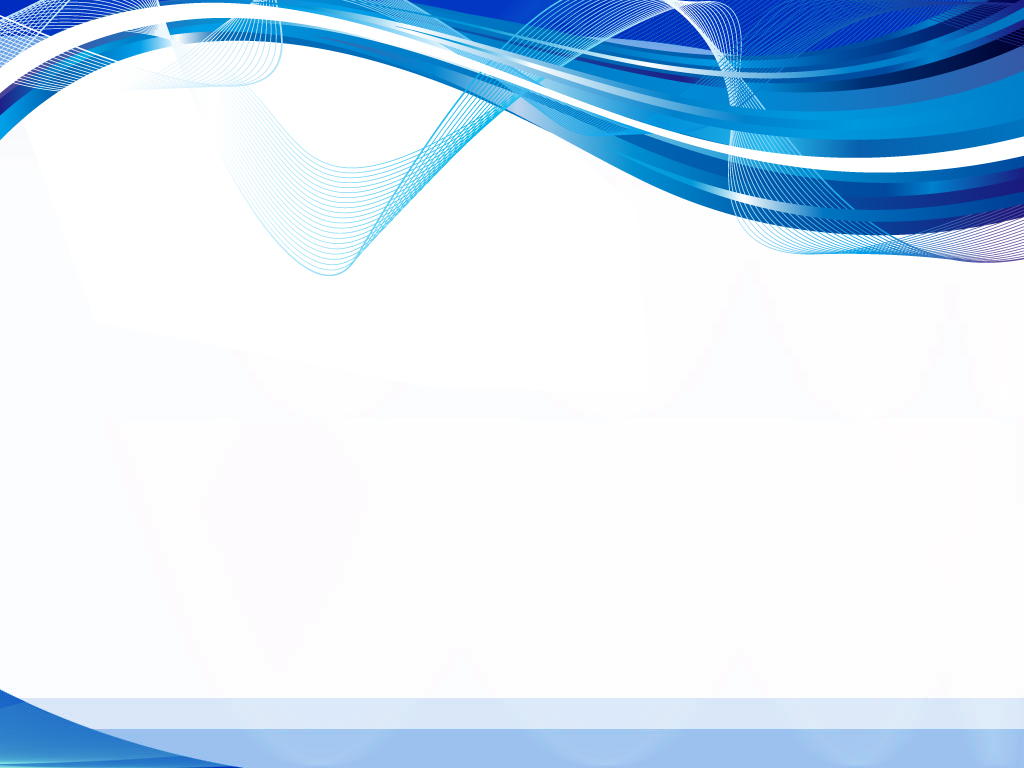
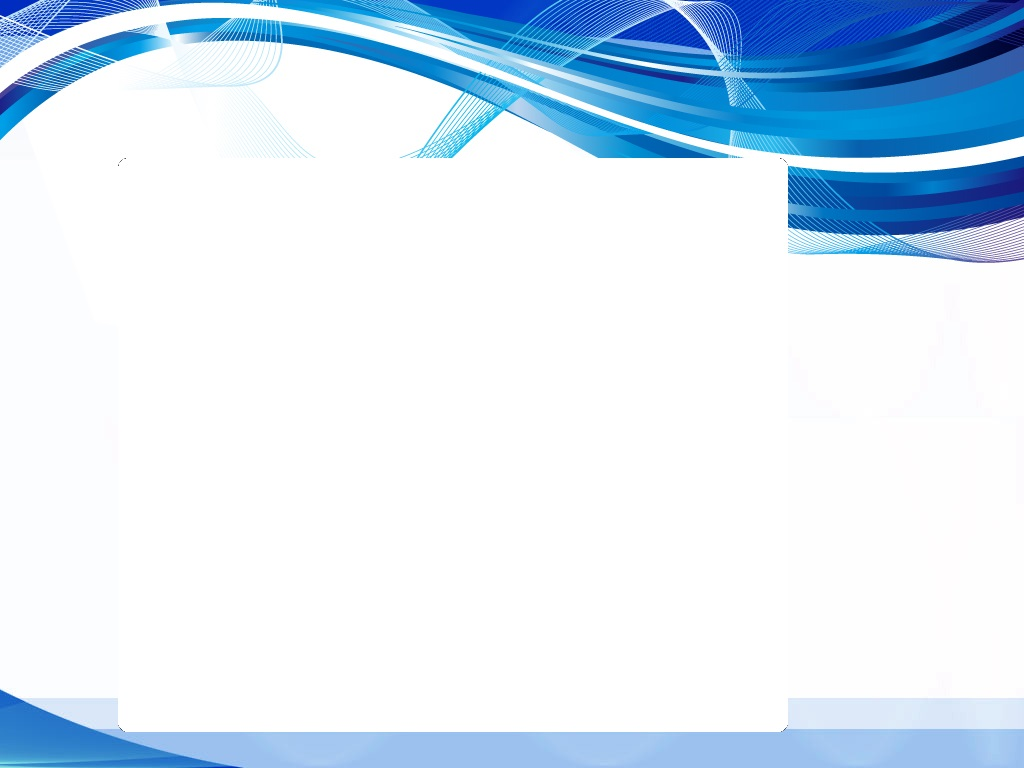
Imagen de Fondo Portafolio

diff --git a/index.html b/index.html
@@ -1,23 +1,35 @@
 <!DOCTYPE html>
 <html>
+
 <head>
-	<title>Portafolio Jeison Moffi</title>
-	<link rel="stylesheet" type="text/css" href="CSS/style.css">
+    <title>Portafolio Jeison Moffi</title>
+    <link rel="stylesheet" type="text/css" href="CSS/style.css">
 </head>
+
 <body>
-	<div class="cabecera">
-		<h1>Portafolio Jeison Moffi</h1>
-	</div>
-	<div class="lateral">
-		opciones
-	</div>
-	<div class="cuerpo">
-		<div>
-			<h2>Pagina 1 creada: Alumnos</h2>
-		</div>
-		<div>
-			<h2>Pagina 2 Creada</h2>
-		</div>
-	</div>
+    <div class="fondo">
+
+    </div>
+    <div class="contenidos">
+        <div class="pag">
+            <h1>Prueba Pagina</h1>
+            <img src="https://s20.postimg.org/ttok0ijwt/Fondo_Total.png">
+            <p>Imagen de fondo de esta pagina para hacer pruebas de como estaria todo esta vaina xD</p>
+        </div>
+        <div class="pag">
+            <h1>Prueba Pagina</h1>
+            <img src="https://s20.postimg.org/ttok0ijwt/Fondo_Total.png">
+            <p>Imagen de fondo de esta pagina para hacer pruebas de como estaria todo esta vaina xD</p>
+        </div>
+        <div class="pag">
+            <h1>Prueba Pagina</h1>
+            <img src="https://s20.postimg.org/ttok0ijwt/Fondo_Total.png">
+            <p>Imagen de fondo de esta pagina para hacer pruebas de como estaria todo esta vaina xD</p>
+        </div>
+        <div>
+            <h1>Hola</h1>
+        </div>
+    </div>
 </body>
+
 </html>

diff --git a/CSS/style.css b/CSS/style.css
@@ -5,11 +5,54 @@
 }
 
 body {
+	background-color: #000;
+}
+
+.pag img{
+	margin: 2em;
+	height: 400px;
+	width: 850px;
+}
+
+.pag p {
+	margin-bottom: 1em;
+}
+
+/*body {
 	background-image: url("http://2.bp.blogspot.com/-2jH3Mh0_OuE/UQ-tFS5MUyI/AAAAAAAAAE4/LaKqieFnG8o/s1600/Abstract+Blue+backgrounds+3.jpg");
 	background-size: cover;
 	background-position: center;
 	background-repeat: no-repeat;
 	background-attachment: fixed;
+}*/
+
+.fondo {
+	background-image: url("https://s20.postimg.org/ttok0ijwt/Fondo_Total.png");
+	position: fixed;
+	background-repeat: no-repeat;
+	background-size: cover;
+	height: 100%;
+	width: 100%;
+	box-sizing: border-box;
+	z-index: 999;
+}
+
+.contenidos {
+	position: absolute;
+	box-sizing: border-box;
+	top: 21.5%;
+	left: 171px;
+	width: 930px;
+}
+
+.pag {
+	text-align: center;
+	border-radius: 10px;
+	box-sizing: border-box;
+	background-color: #fff;
+	border: 2px solid #5F5F5F;
+	margin-bottom: 1em;
+	height: 560px;
 }
 
 .cabecera {
